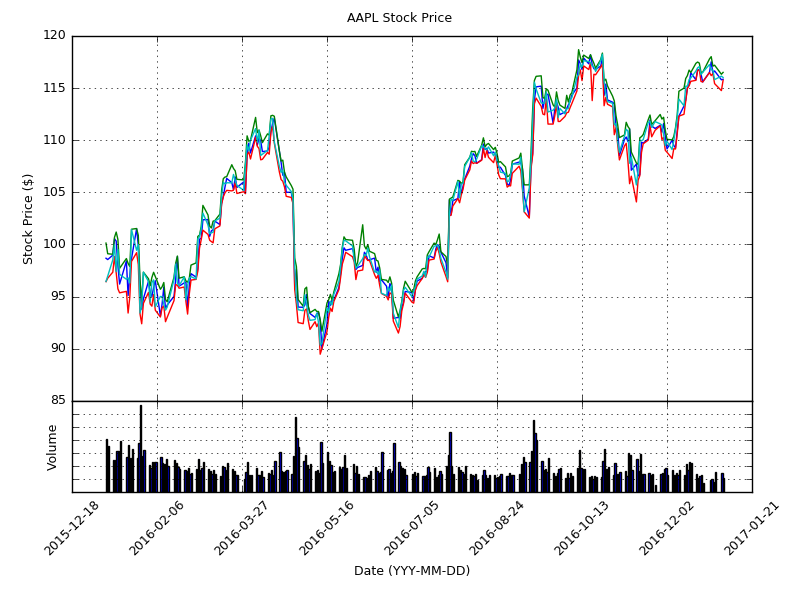
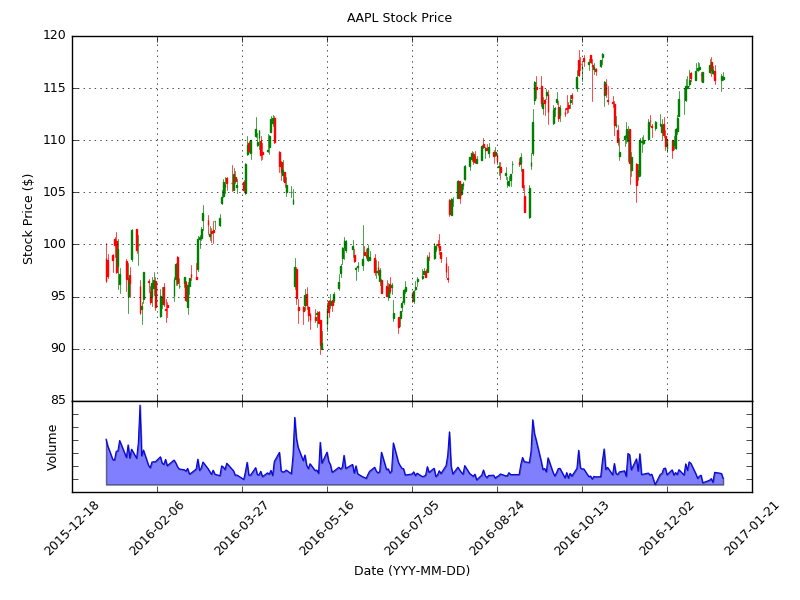
i like playing with colors

diff --git a/technical-analysis/oneDayOHLC/candle_stick_and_volume.py b/technical-analysis/oneDayOHLC/candle_stick_and_volume.py
@@ -5,7 +5,7 @@ import matplotlib
 import matplotlib.pyplot as mplot
 import matplotlib.ticker as mticker
 import matplotlib.dates as mdates
-from matplotlib.finance import candlestick_ohlc
+from matplotlib.finance import candlestick_ochl
 # custom matplotlib parameters
 matplotlib.rcParams.update({'font.size': 9})
 
@@ -27,29 +27,38 @@ def graphData(stock):
 			candles.append(newLine)
 			i = i + 1
 
+
 		f = mplot.figure()
+
+
 		# on a 4x4 figure, plot at (0,0)
 		a = mplot.subplot2grid((5,4), (0,0), rowspan=4, colspan=4)
 		
-		# plot variables needed
-		a.plot(date, openPrice)
-		a.plot(date, highPrice)
-		a.plot(date, lowPrice)
-		a.plot(date, closePrice)
+		# using matplotlib's candlestick charting
+		candlestick_ochl(a, candles, width=0.5, colorup='g', colordown='r')
+
 		mplot.ylabel('Stock Price ($)')
 		a.grid(True)
 
+
+		minVolume = volume.min()
+
 		# bar chart for volume
 		b = mplot.subplot2grid((5,4), (4,0), sharex=a, rowspan=1, colspan=4)
-		b.bar(date, volume)
+		b.plot(date, volume, 'b', linewidth=.8)
+		b.fill_between(date, minVolume, volume, facecolor='b', alpha=.5)
 		# remove y-axis labeling for volume
 		b.axes.yaxis.set_ticklabels([])
 		mplot.ylabel('Volume')
-		b.grid(True)
+		b.grid(False)
+
 
 		# fit 10 dates into graph and formatt properly
 		a.xaxis.set_major_locator(mticker.MaxNLocator(10))
 		a.xaxis.set_major_formatter(mdates.DateFormatter('%Y-%m-%d'))
+
+
+		matplotlib.rc('axes',edgecolor='#5998ff')
 
 		# rotating angles by 90 degrees to fit properly
 		for label in a.xaxis.get_ticklabels():
@@ -60,19 +69,16 @@ def graphData(stock):
 
 		# subplot profile parameters
 		mplot.subplots_adjust(left=.10, bottom=.19, right=.93, top=.95, wspace=.20, hspace=.07)
-
 		# plot profiling
 		mplot.xlabel('Date (YYY-MM-DD)')
 		# mplot.ylabel('Stock Price ($)')
 		mplot.suptitle(stock + ' Stock Price')
-		
 		# remove x axis from first graph, used at bottom already
 		mplot.setp(a.get_xticklabels(), visible=False)
-
 		# adjusting plots in a clean manner
 		mplot.subplots_adjust(left=.09, bottom=.18, right=.94, top=.94, wspace=.20, hspace=0)
-
 		mplot.show()
+
 
 		f.savefig('financial_graph.png')		
 
